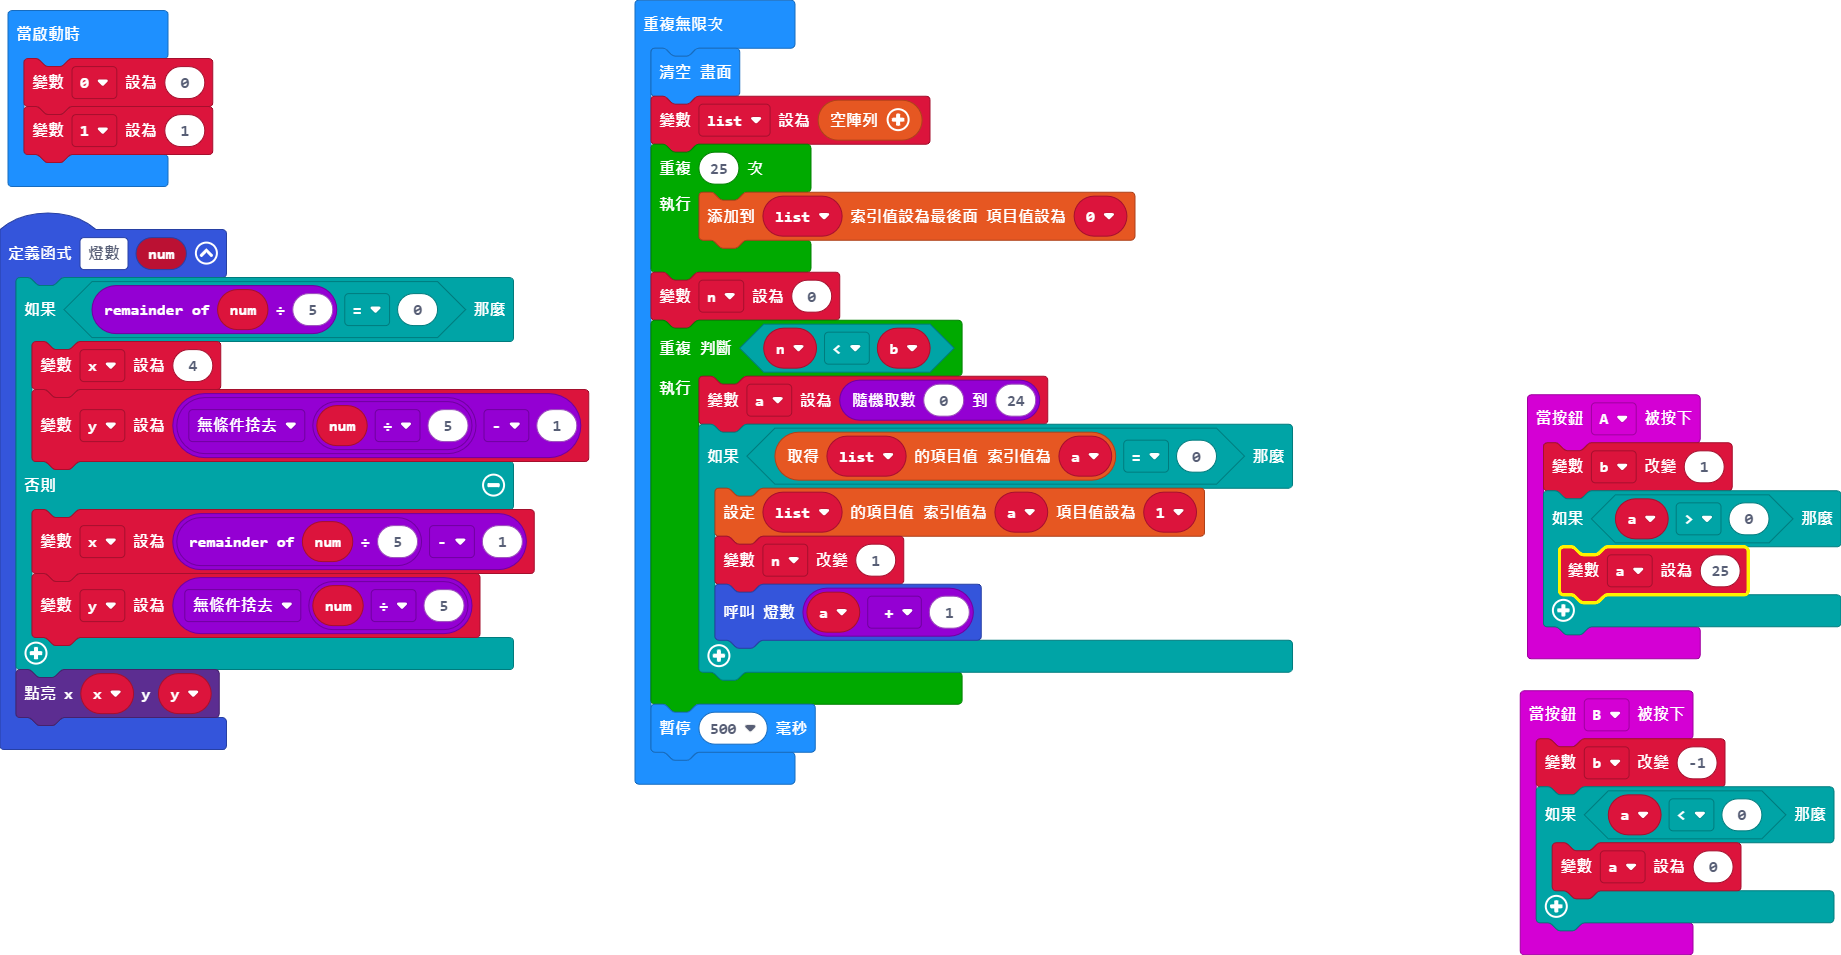
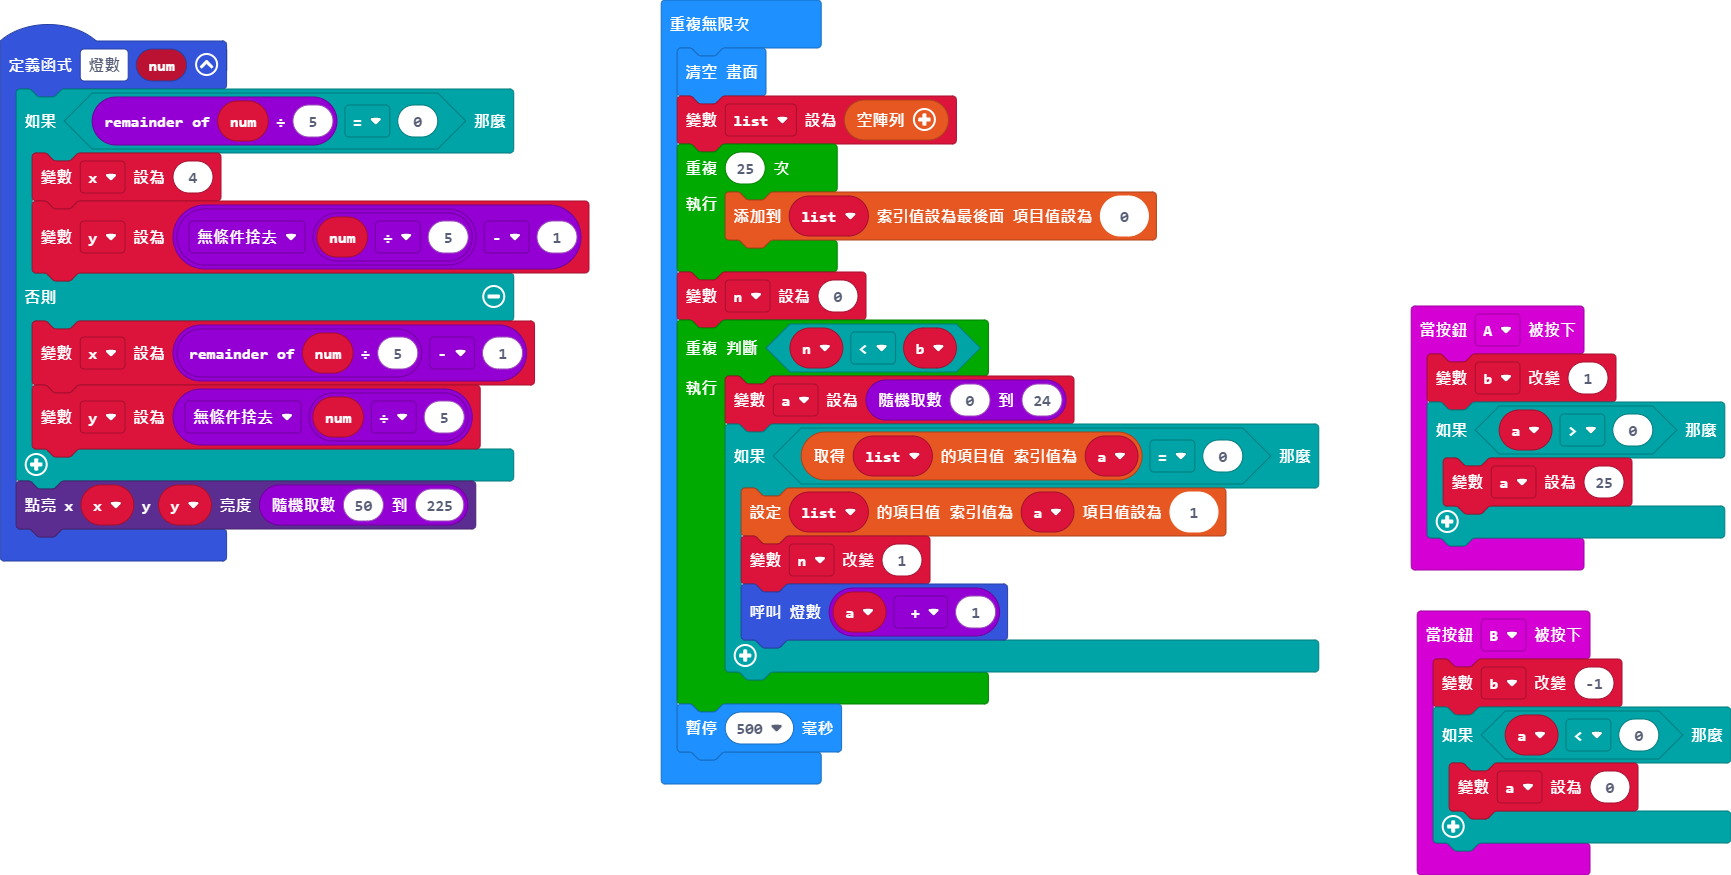
更新 main.blocks, main.ts

diff --git a/main.ts b/main.ts
@@ -1,3 +1,9 @@
+let x = 0
+let y = 0
+let b = 0
+let a = 0
+let list: number[] = []
+let n = 0
 function 燈數 (num: number) {
     if (num % 5 == 0) {
         x = 4
@@ -6,7 +12,7 @@ function 燈數 (num: number) {
         x = num % 5 - 1
         y = Math.floor(num / 5)
     }
-    led.plot(x, y)
+    led.plotBrightness(x, y, randint(50, 225))
 }
 input.onButtonPressed(Button.A, function () {
     b += 1
@@ -20,25 +26,17 @@ input.onButtonPressed(Button.B, function () {
         a = 0
     }
 })
-let n = 0
-let list: number[] = []
-let a = 0
-let b = 0
-let y = 0
-let x = 0
-let _0 = 0
-let _1 = 1
 basic.forever(function () {
     basic.clearScreen()
     list = []
     for (let index = 0; index < 25; index++) {
-        list.push(_0)
+        list.push(0)
     }
     n = 0
     while (n < b) {
         a = randint(0, 24)
         if (list[a] == 0) {
-            list[a] = _1
+            list[a] = 1
             n += 1
             燈數(a + 1)
         }
